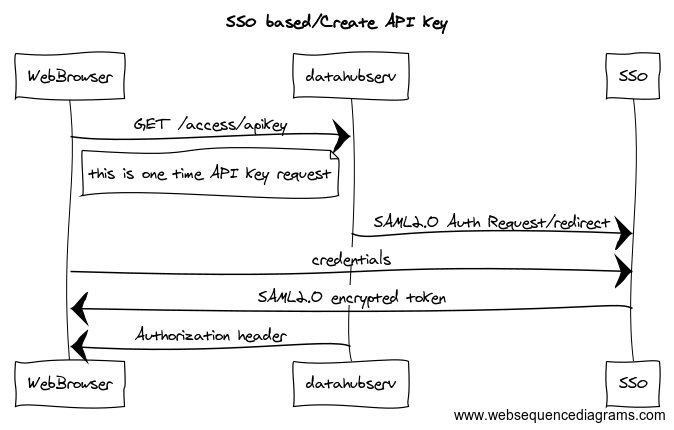
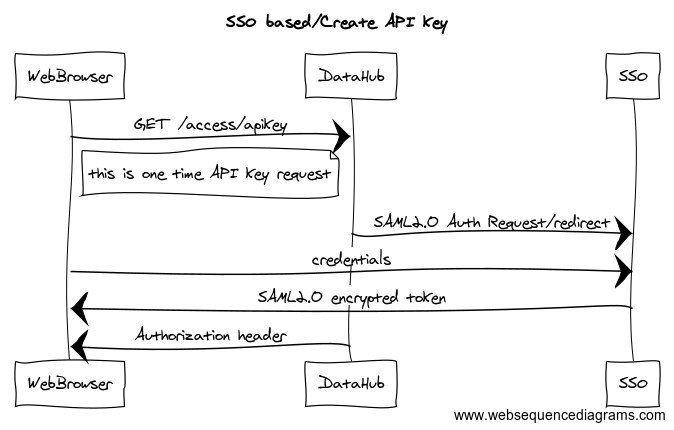
second review

Changed region(s): [[0.4362, 0.8163, 0.592, 0.9674], [0.4362, 0.1209, 0.6231, 0.2419]]

diff --git a/docs/genseqdia.py b/docs/genseqdia.py
@@ -1,6 +1,7 @@
 import urllib
 import re
 
+#TODO incremental rename
 def getSequenceDiagram( text, outputFile, style = 'napkin' ):
     request = {}
     request["message"] = text
@@ -22,6 +23,24 @@ def getSequenceDiagram( text, outputFile, style = 'napkin' ):
 
     urllib.urlretrieve("http://www.websequencediagrams.com/" + m.group(0), outputFile )
     return True
+
+
+arch = """
+title Architecture
+
+common-network/DataSource->hadoop-network-dmz/DataHub API: continuous documents and information import
+hadoop-network-dmz/DataHub API->hadoop-network/HBASE: incremental save
+common-network/DataSource->hadoop-network-dmz/DataHub API: continuous documents and information import
+hadoop-network-dmz/DataHub API->hadoop-network/HBASE: incremental save
+
+hadoop-network-dmz/SparkBatch->service-network/ElasticSearch: index updates
+hadoop-network-dmz/SparkBatch<->hadoop-network/HBASE: analytics algorithms
+
+common-network/User<->hadoop-network-dmz/SearchWebApp: interactive search session
+hadoop-network-dmz/SearchWebApp<->service-network/ElasticSearch: actual search
+common-network/User<->hadoop-network-dmz/DataHub API: analytics results lookup
+"""
+
 
 demo = """
 title Authentication Sequence
@@ -53,65 +72,66 @@ end
 createAPIKey = """
 title SSO based/Create API key
 
-WebBrowser->datahubserv: GET /access/apikey
+WebBrowser->DataHub: GET /access/apikey
 note right of WebBrowser: this is one time API key request
-datahubserv->SSO: SAML2.0 Auth Request/redirect
+DataHub->SSO: SAML2.0 Auth Request/redirect
 WebBrowser->SSO: credentials
 SSO->WebBrowser: SAML2.0 encrypted token
-datahubserv->WebBrowser: "Authorization header"
+DataHub->WebBrowser: "Authorization header"
 """
 createApplication = """
 title data intake source registration request
 
-WebBrowser->datahubserv: PUT /access/intake/applications
+WebBrowser->DataHub: PUT /access/intake/applications
 note right of WebBrowser: this is one time application provisioning
-WebBrowser->datahubserv: GET /access/applications/{id}
-WebBrowser->datahubserv: GET /access/applications/{id}
+WebBrowser->DataHub: GET /access/applications/{id}
+WebBrowser->DataHub: GET /access/applications/{id}
 note right of WebBrowser: polling request status
-WebBrowser->datahubserv: GET /access/applications/{id}
+WebBrowser->DataHub: GET /access/applications/{id}
 """
 
 fullScan = """
-title Full Confluence Scan and upload to datahubserv
+title Full Confluence Scan and upload to DataHub
 note right of Script: It is assumed that API key
 note right of Script: has been provisioned and
 note right of Script: used in below exchange
-Script->datahubserv: PUT /intake/sessions?incremental=false
-datahubserv->Script: trxid
+Script->DataHub: PUT /intake/sessions?incremental=false
+DataHub->Script: trxid
 Script<->Confluence: get next space/page
-Script->datahubserv: POST /intake/sessions/{id}/document
+Script->DataHub: POST /intake/sessions/{id}/document
 Confluence<->Script: get next space/page
-Script->datahubserv: POST /intake/sessions/{id}/document
+Script->DataHub: POST /intake/sessions/{id}/document
 Confluence<->Script: get next space/page
-Script->datahubserv: POST /intake/sessions/{id}/document
+Script->DataHub: POST /intake/sessions/{id}/document
 Confluence<->Script: get next space/page
-Script->datahubserv: POST /intake/sessions/{id}/document
+Script->DataHub: POST /intake/sessions/{id}/document
 note right of Script: ... it might take hours ...
 Confluence<->Script: get next space/page
-Script->datahubserv: POST /intake/sessions/{id}/document
-Script->datahubserv: PUT /intake/sessions/{id}/submit
+Script->DataHub: POST /intake/sessions/{id}/document
+Script->DataHub: PUT /intake/sessions/{id}/submit
 """
 
 incrementalScan = """
-title Incremental Confluence Scan and upload to datahubserv
+title Incremental Confluence Scan and upload to DataHub
 note right of Script: It is assumed that API key
 note right of Script: has been provisioned and
 note right of Script: used in below exchange
-Script->datahubserv: PUT /intake/sessions?incremental=true
-datahubserv->Script: trxid, time segments
+Script->DataHub: PUT /intake/sessions?incremental=true
+DataHub->Script: trxid, time segments
 Script<->Confluence: get list of updated pages for given time segment
 Confluence<->Script: get next page
-Script->datahubserv: POST /intake/sessions/{id}/document
+Script->DataHub: POST /intake/sessions/{id}/document
 Confluence<->Script: get next page
-Script->datahubserv: POST /intake/sessions/{id}/document
+Script->DataHub: POST /intake/sessions/{id}/document
 note right of Script: ... it usually takes 15 minutes to complete one update
 Confluence<->Script: get next page
-Script->datahubserv: POST /intake/sessions/{id}/document
-Script->datahubserv: PUT /intake/sessions/{id}/submit
+Script->DataHub: POST /intake/sessions/{id}/document
+Script->DataHub: PUT /intake/sessions/{id}/submit
 """
 
 #getSequenceDiagram(demo, "demo.png")
 getSequenceDiagram(createAPIKey, "create-apikey.png")
 getSequenceDiagram(createApplication, "create-application.png")
-getSequenceDiagram(fullScan, "full-scan.png")
-getSequenceDiagram(incrementalScan, "incremental-scan.png")
+getSequenceDiagram(fullScan, "scan.png")
+getSequenceDiagram(incrementalScan, "update.png")
+getSequenceDiagram(arch, "arch.png")
